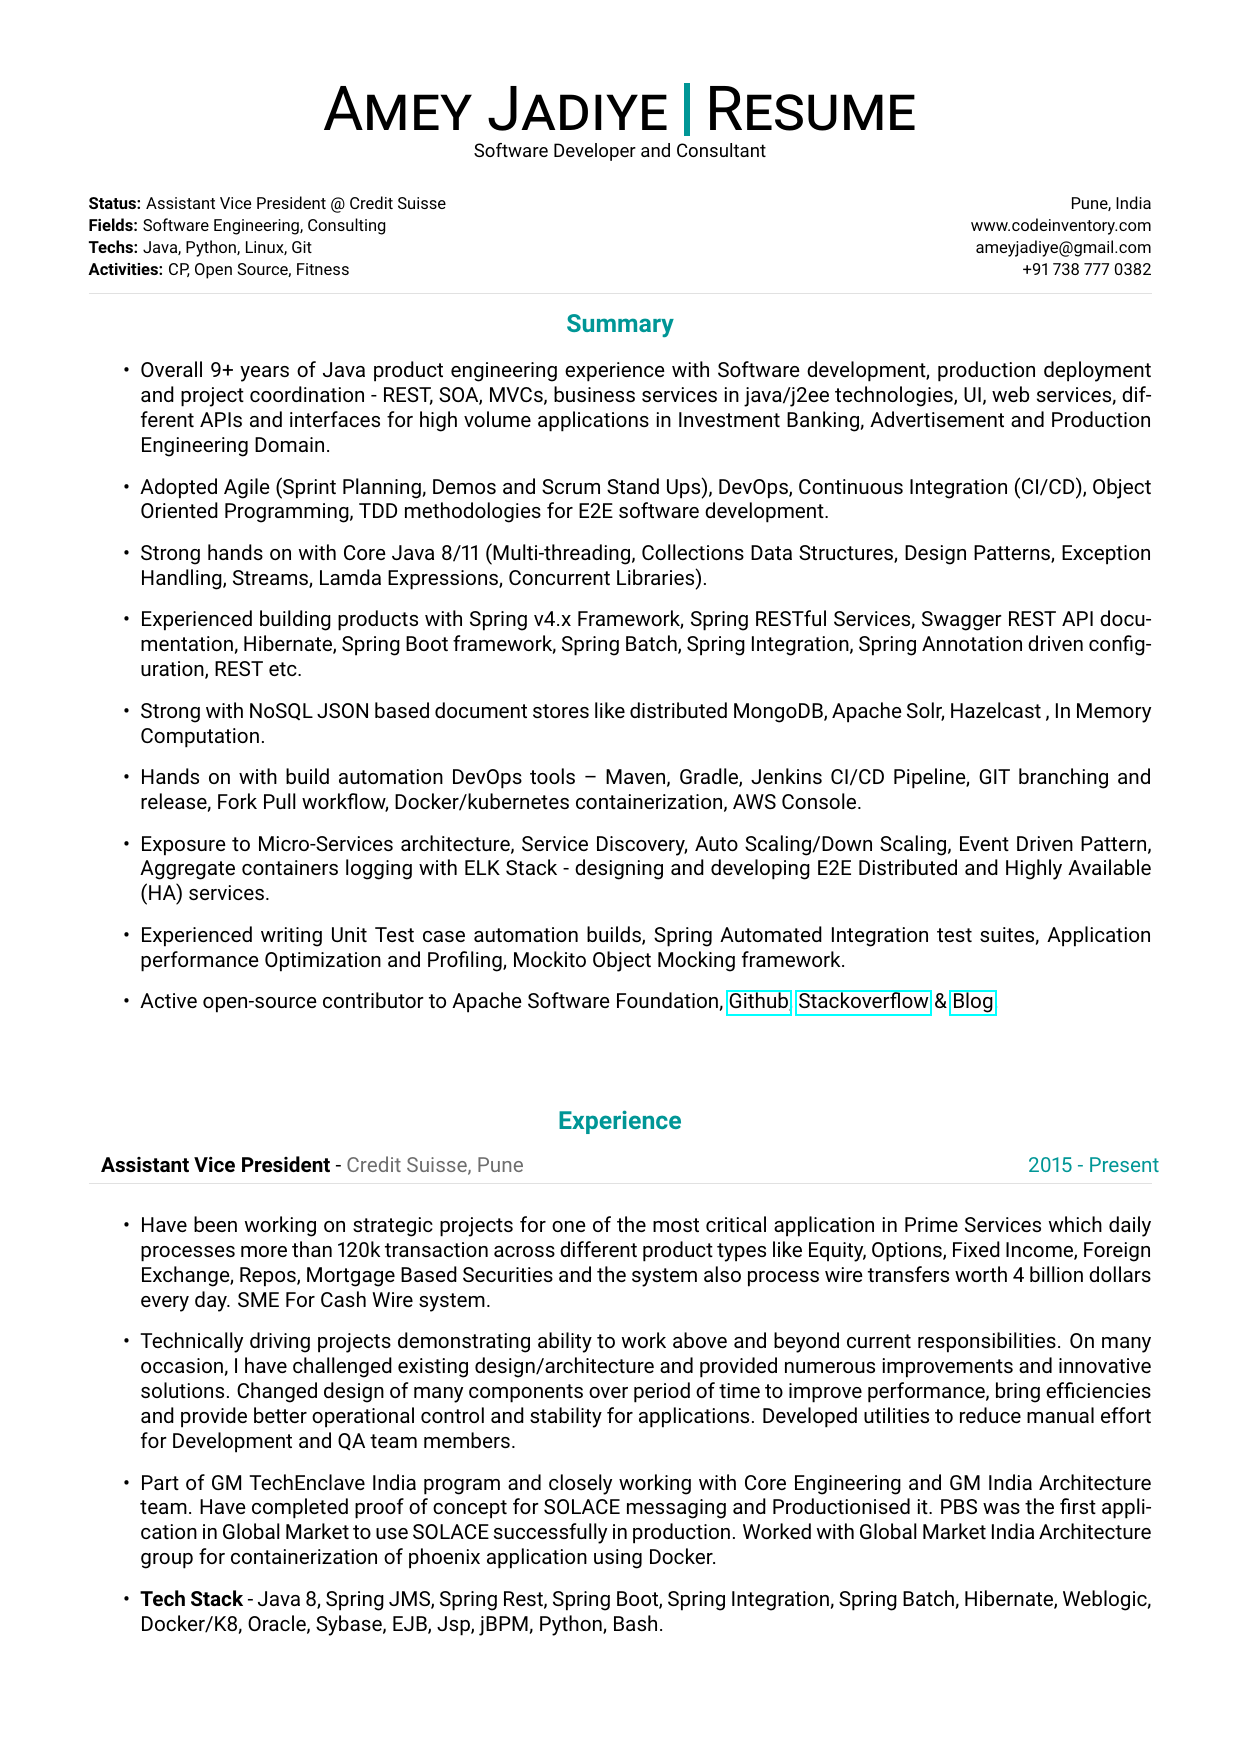
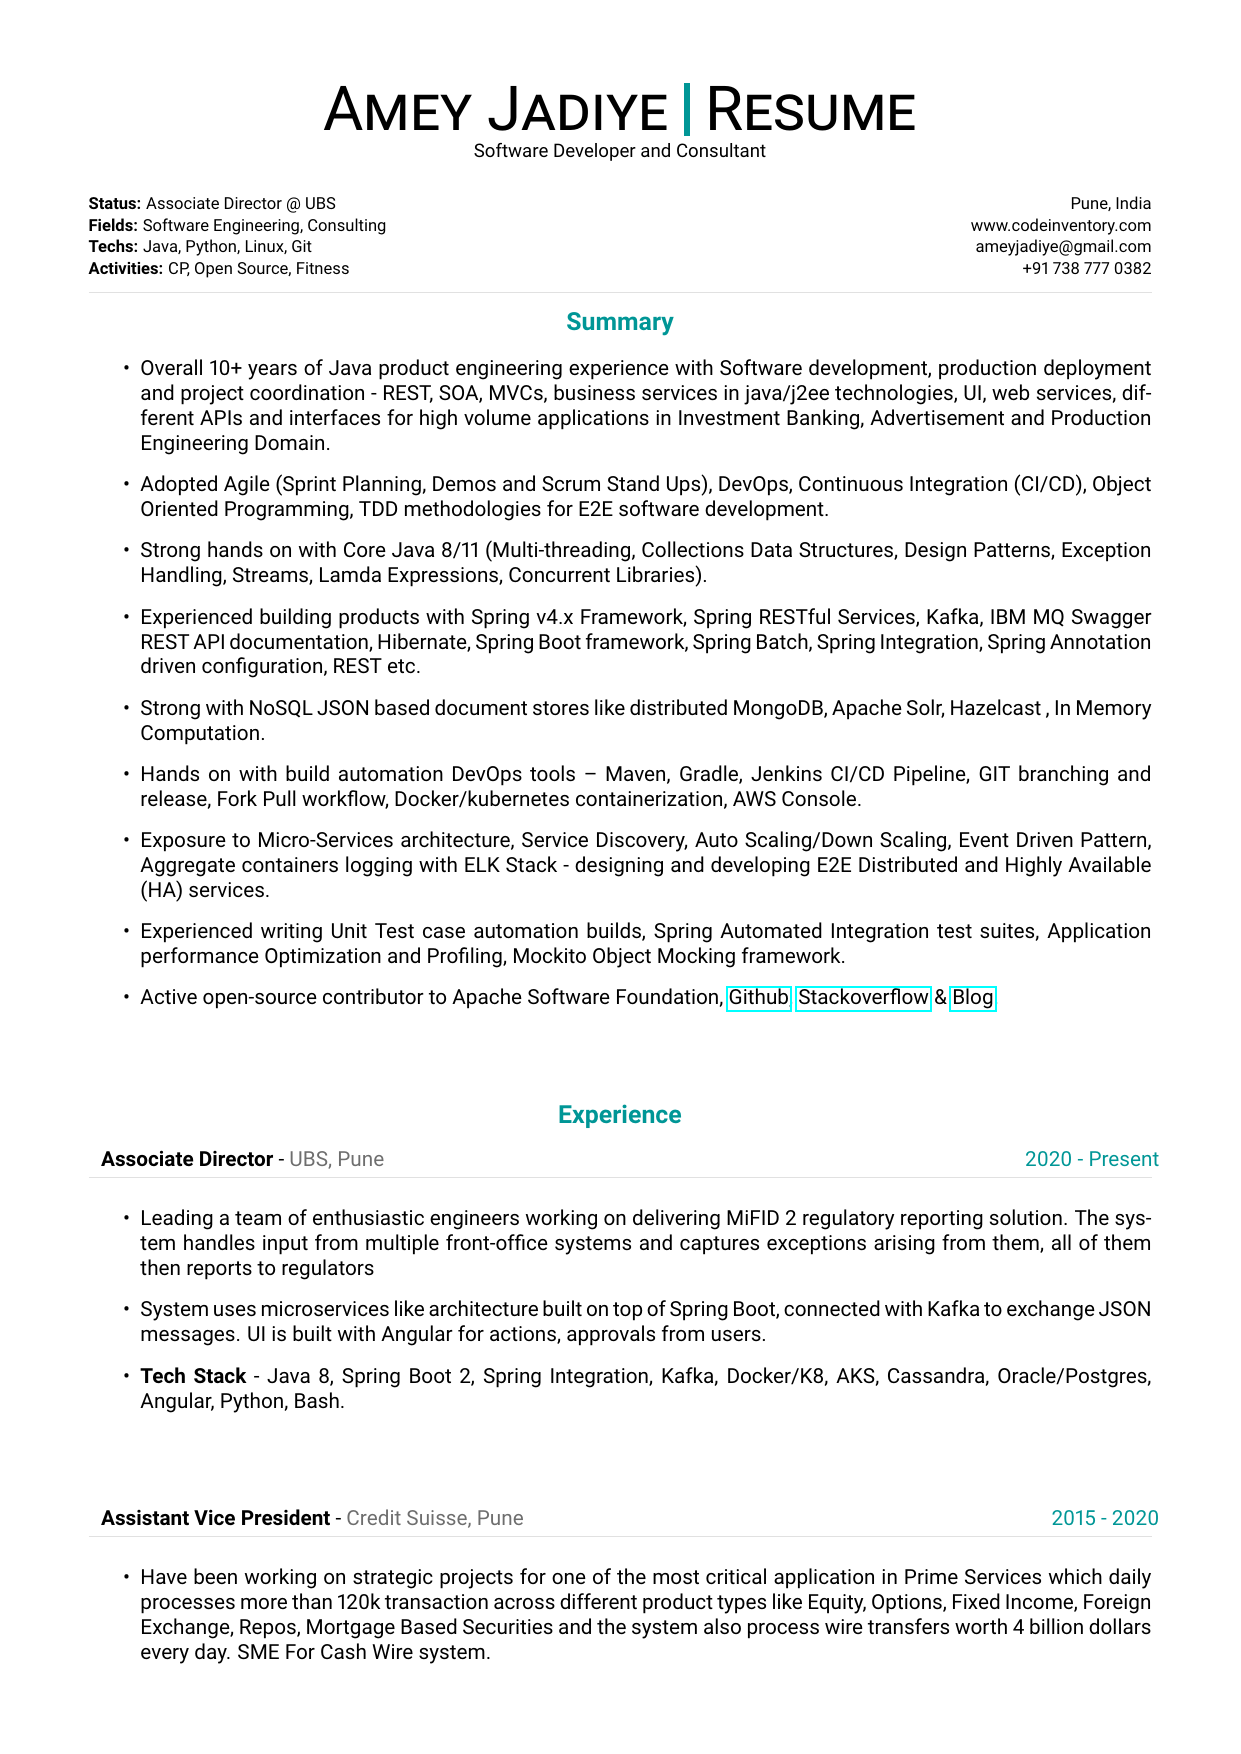
Resume updates after joining UBS

diff --git a/resume.tex b/resume.tex
@@ -347,7 +347,7 @@
 %---------------------------------------------------------------------------------------
 %	META SECTION
 %----------------------------------------------------------------------------------------
-\metasection{Pune, India}{\textbf{Status:} Assistant Vice President @ Credit Suisse}
+\metasection{Pune, India}{\textbf{Status:} Associate Director @ UBS}
 \metasection{www.codeinventory.com}{\textbf{Fields:} Software Engineering, Consulting} 
 \metasection{ameyjadiye@gmail.com}{\textbf{Techs:} Java, Python, Linux, Git}
 \metasection{+91 738 777 0382}{\textbf{Activities:} CP, Open Source, Fitness}
@@ -364,7 +364,7 @@
 \cvsection{Summary}
 
 \begin{itemize}
-\item Overall 9+ years of Java product engineering experience with Software development, 
+\item Overall 10+ years of Java product engineering experience with Software development, 
 production deployment and project coordination - REST, SOA,
 MVCs, business services in java/j2ee technologies, UI, web services, different APIs and
 interfaces for high volume applications in Investment Banking, Advertisement and Production Engineering Domain.
@@ -375,7 +375,7 @@ Object Oriented Programming, TDD methodologies for E2E software development.
 \item Strong hands on with Core Java 8/11 (Multi-threading, Collections Data Structures, Design Patterns,
 Exception Handling, Streams, Lamda Expressions, Concurrent Libraries).
 
-\item Experienced building products with Spring v4.x Framework, Spring RESTful Services, 
+\item Experienced building products with Spring v4.x Framework, Spring RESTful Services, Kafka, IBM MQ
 Swagger REST API documentation, Hibernate, Spring Boot framework, Spring Batch, Spring Integration, 
 Spring Annotation driven configuration, REST etc.
 
@@ -406,7 +406,28 @@ Application performance Optimization and Profiling, Mockito Object Mocking frame
 %----------------------------------------------------------------------------------------
 \cvsection{Experience}
 
-\cvevent{2015 - Present}
+\cvevent{2020 - Present}
+{Associate Director}
+{UBS, Pune}
+{
+\begin{itemize}
+
+\item	Leading a team of enthusiastic engineers working on delivering MiFID 2 regulatory reporting solution. 
+	The system handles input from multiple front-office systems and captures exceptions arising from them, all of them then reports to regulators
+	
+\item	System uses microservices like architecture built on top of Spring Boot, connected with Kafka to exchange JSON messages. 
+	UI is built with Angular for actions, approvals from users.
+		
+\item \textbf{Tech Stack} - Java 8, Spring Boot 2, Spring Integration, Kafka, Docker/K8, AKS, Cassandra, Oracle/Postgres, Angular, Python, Bash.
+
+\end{itemize}
+
+}
+
+\ \\ \\
+
+
+\cvevent{2015 - 2020}
 {Assistant Vice President}
 {Credit Suisse, Pune}
 {
@@ -532,7 +553,7 @@ maintainability in mind
 \item Document each proposed change to be able to perform unit/integrated completed
 system testing once coded.
 
-\item \textbf{Tech Stack} - JDK 1.6, J2EE, Hibernate, Struts 1.2.9, spring,
+\item \textbf{Tech Stack} - JDK 1.6, J2EE, Hibernate, Struts 1.2.9, Spring 2.5,
 Spring-Batch, Tomcat, Oracle 10g, Display tag, Maven.
 
 \end{itemize}
@@ -564,8 +585,6 @@ Spring-Batch, Tomcat, Oracle 10g, Display tag, Maven.
 \item Ranked In Top 3 India level Atos Employee Skill assessment (2013).
 \item Consistent Performer Rating, Atos India (2011, 2012, 2013).
 \item Excellence Award, Atos India(2011).
-\item Won 2nd Prize In “C Programming” , Inter college competition (March 2010).
-\item Won 3rd Prize In “Web Designing” , Inter college competition (Sept 2008).
 \item University Topper 1st in Physics (June 2007).
 \item Collage Topper 1st in Physics, 2nd in Math (June 2006).
 \end{itemize}
